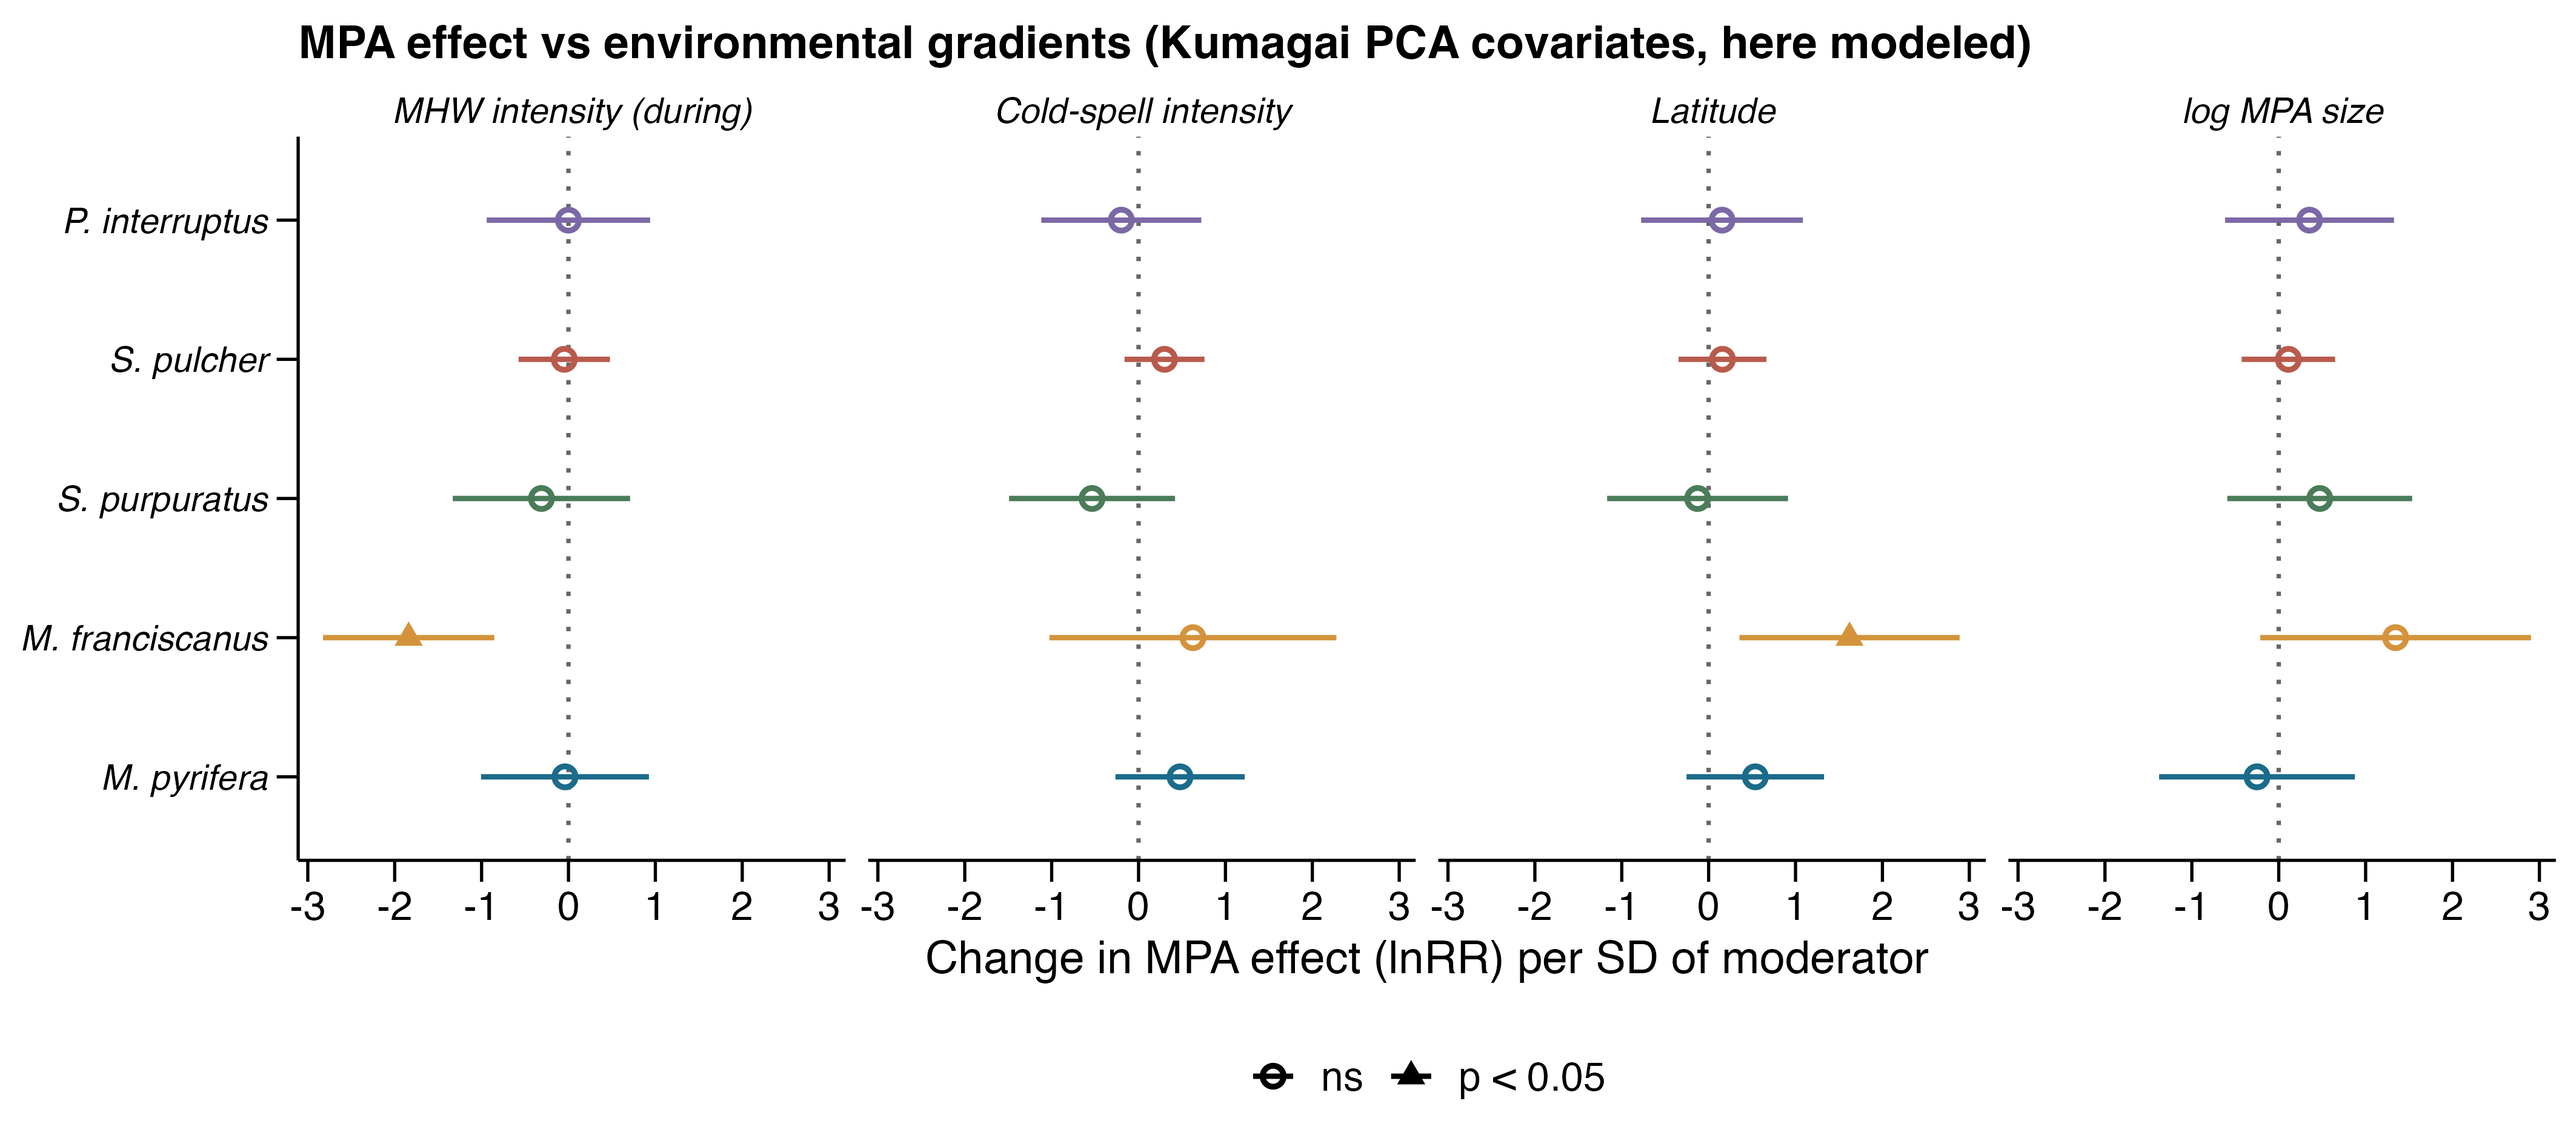
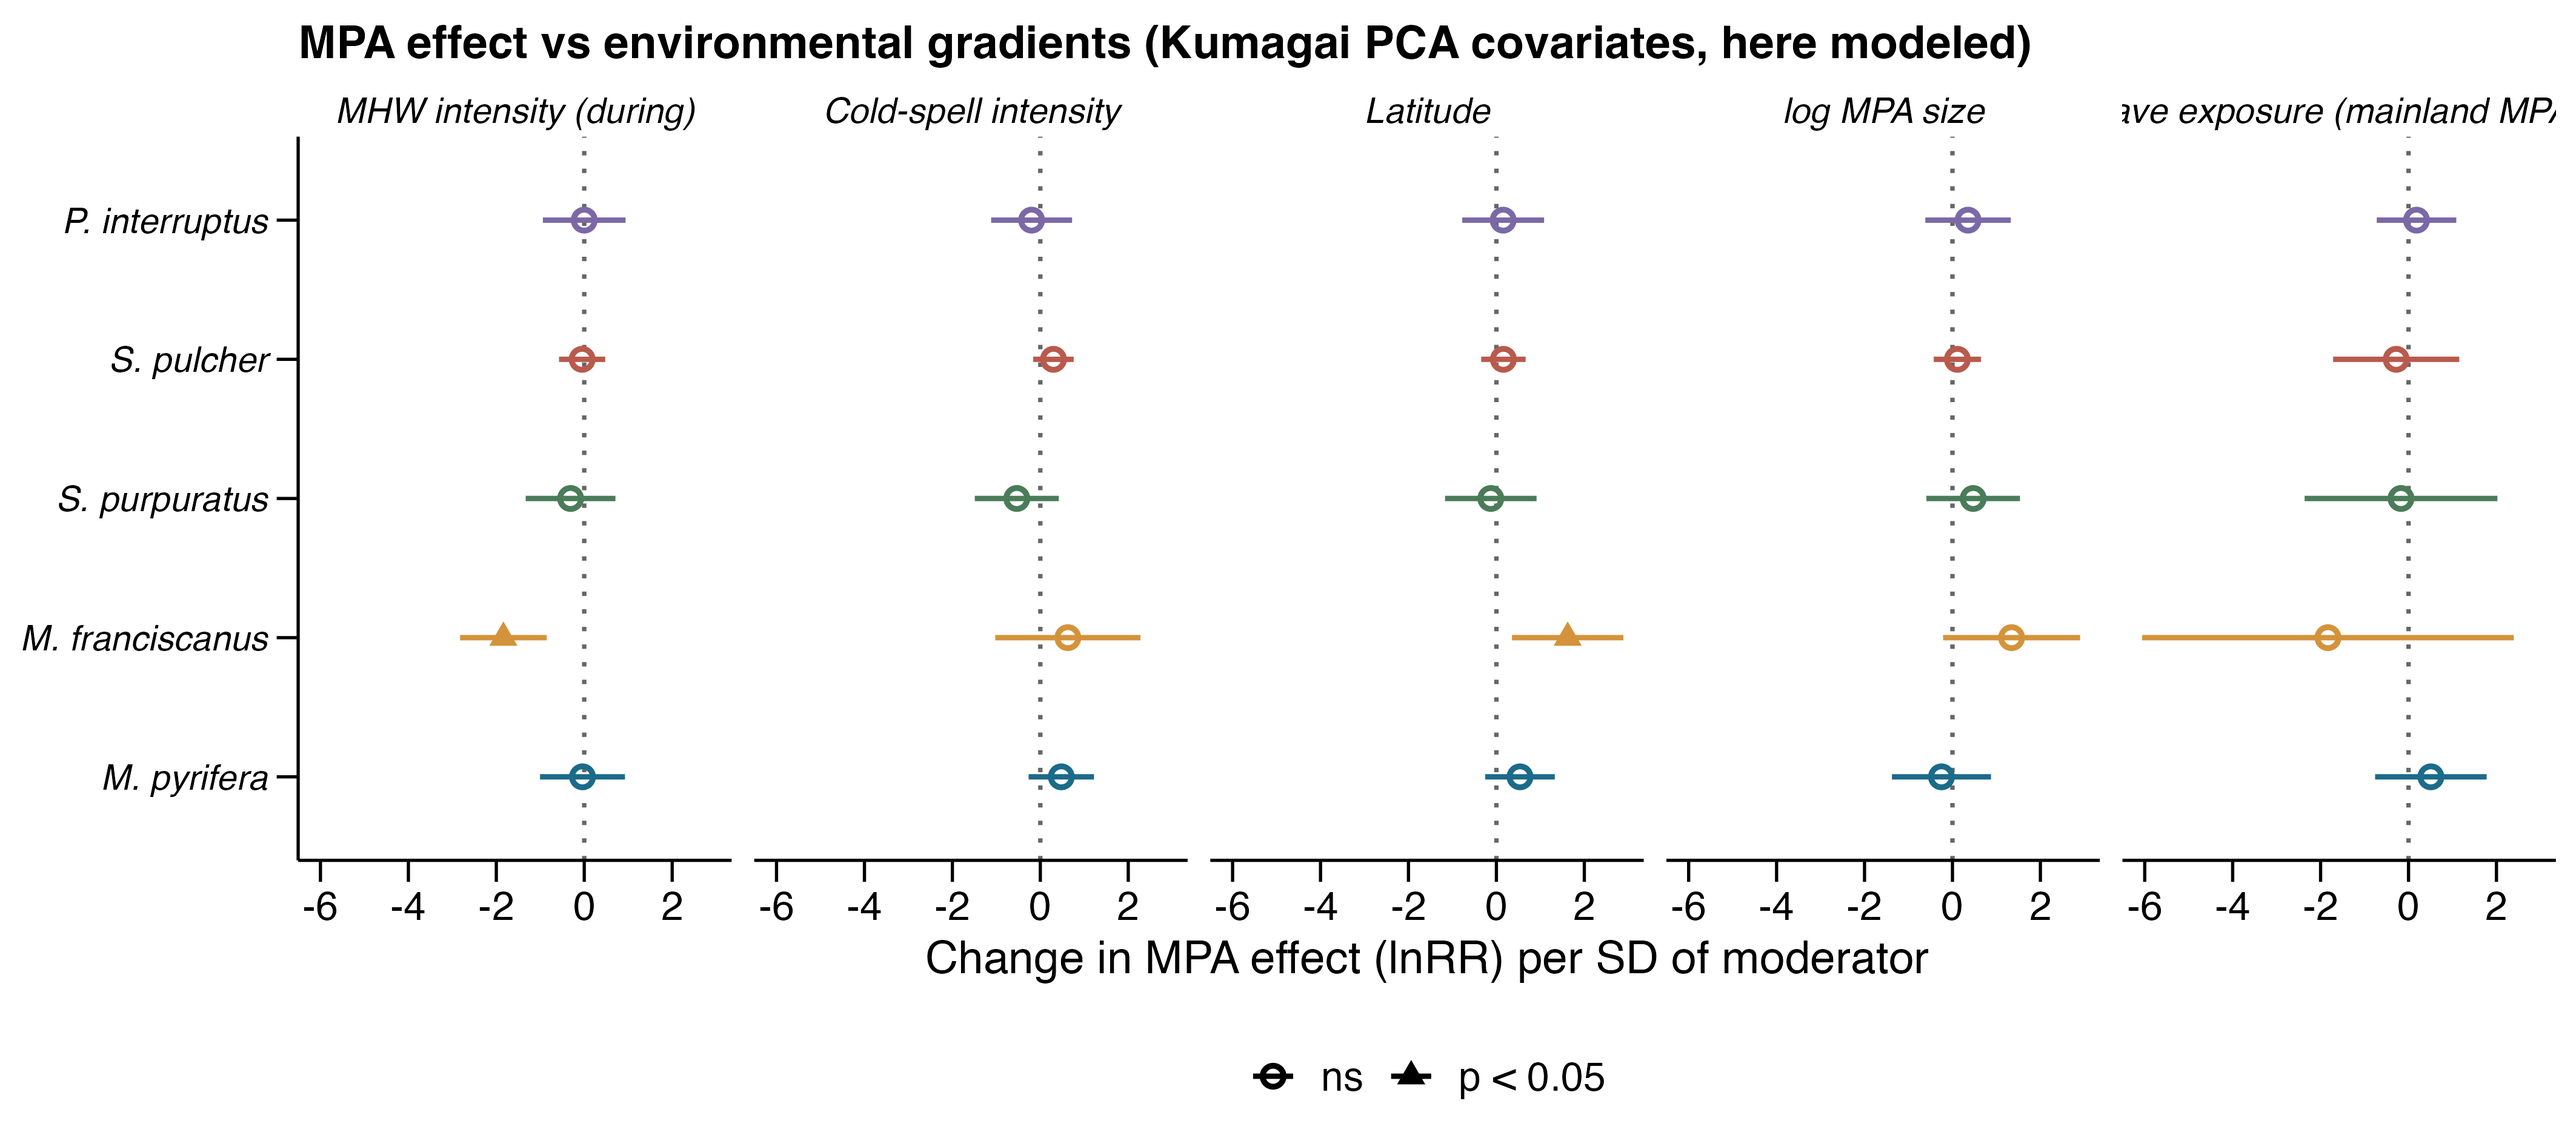
Add wave-exposure data (EDI Bell SBC LTER) and integrate as a moderator
Acquired the per-location wave product Kumagai used for hsmax: SBC LTER swell-
propagation model, EDI knb-lter-sbc.144 (Bell et al.), the same product family
behind our Landsat kelp data. Raw tables (segment locations + annual kelp/nitrate/
waves) saved to ~/sbc-kelp-env/ with provenance; derived per-MPA wave exposure
written to data/per_mpa_wave_exposure.csv (mean annual significant wave height at
the nearest coastline segment, 2000-2021).

Integrated into 16_environmental_moderators.R as a 5th moderator. Result: wave
exposure does not significantly modulate any taxon's MPA effect (mainland k=5-8,
all p>=0.26) -- consistent with the other-moderator null.

COVERAGE: the product's 360 coastline segments are mainland-only -- the 14 mainland
MPAs match within <=0.5 km (valid), but the 20 Channel-Islands MPAs are 32-105 km
from any segment and are left NA. Island-inclusive nearshore waves would need CDIP
MOP or the per-pixel CAkelpCanopyEnv NetCDF. nitrate/depth still not reconstructed.
Docs (methods_comparison_supplement, RESILIENCE_SYNTHESIS, CLAUDE, README) updated.

diff --git a/CLAUDE.md b/CLAUDE.md
@@ -521,7 +521,7 @@ Goals of the comparison: (1) confirm our PISCO numbers match theirs at shared si
 
 **Formal method-vs-data decomposition (done):** `15_methods_comparison.R` quantifies how much of the difference between the two studies is method vs data via an analytical multiverse — a 6-waypoint method bridge (one analytical flip per step) on a common dataset, plus the pooled waypoints run on both datasets. See the "Methods-comparison supplement" note under the figure-mapping section above and `docs/methods_comparison_supplement.md`. Headline: kelp resilience is method-invariant; urchin inference hinges on the AR1 autocorrelation choice; the dataset itself is the single largest lever.
 
-**Environmental-covariate gap (done):** `16_environmental_moderators.R` tests the environmental predictors Kumagai mapped in their PCA but never modeled (MHW & cold-spell intensity, latitude, MPA size — wave/nitrate/depth unavailable per-MPA without fabrication) as meta-regression moderators of our per-MPA effect sizes (Knapp-Hartung). Clean null: nothing survives FDR; giant-kelp resilience is not modulated by any gradient; omitting these covariates does not appear to bias the headline conclusions. See the "Environmental-moderator supplement" note above.
+**Environmental-covariate gap (done):** `16_environmental_moderators.R` tests the environmental predictors Kumagai mapped in their PCA but never modeled (MHW & cold-spell intensity, latitude, MPA size, and **wave exposure** for mainland MPAs) as meta-regression moderators of our per-MPA effect sizes (Knapp-Hartung). Clean null: nothing survives FDR; giant-kelp resilience is not modulated by any gradient (incl. wave exposure, p≥0.26); omitting these covariates does not appear to bias the headline conclusions. WAVE DATA: obtained from EDI knb-lter-sbc.144 (Bell SBC LTER swell model, same product as Kumagai's hsmax) → `data/per_mpa_wave_exposure.csv` (raw + provenance in `~/sbc-kelp-env/`). Covers MAINLAND MPAs only (14 valid ≤0.5km; the 20 Channel-Islands MPAs are 32-105km from any coastline segment → NA; island-inclusive waves need CDIP MOP or the per-pixel CAkelpCanopyEnv NetCDF). nitrate/depth still not reconstructed. See the "Environmental-moderator supplement" note above.
 
 **RESILIENCE ANALYSIS SUITE — read `docs/RESILIENCE_SYNTHESIS.md` first.** Scripts 14-23 form an integrated resilience module (run with `code/R/run_resilience.R`; harmonized-only 14/19/21/22/23 also in run_all). Facets: core response (14), repeatability across two heatwaves (19), resistance/recovery on the state variable (22), ecological memory/reserve-consistency (23), generality across stressor types / SSWD (20), temporal stability (21), robustness & attribution via multiverse (15), environmental moderators (16), predictability of effectiveness (18), cross-study reproduction of Eisaguirre (17). THEME: robust + repeatable giant-kelp resilience to heatwaves (kelp grows inside / declines outside; method-invariant; not modulated by env gradients; not driven by SSWD; same reserves repeat); fragile/unresolved urchin-mediation, predator diversity, and among-reserve PREDICTION (consistent but unexplained). The notes below detail each.
 

diff --git a/README.md b/README.md
@@ -334,7 +334,7 @@ We are comparing this analysis against **Kumagai et al. 2024** (*Global Change B
 
 A formal **method-vs-data decomposition** (`code/R/15_methods_comparison.R`, SI supplement `docs/methods_comparison_supplement.md`) runs an analytical multiverse — a 6-waypoint method bridge that flips one analytical choice at a time from the Kumagai-style endpoint to ours on a common dataset, plus the pooled waypoints run on both datasets — to measure how much of the between-study variation in MPA × heatwave effect sizes is driven by method versus data. Headline: giant-kelp resilience is method-invariant; the urchin inference hinges on whether temporal autocorrelation is modelled; and the dataset itself is the single largest lever.
 
-A companion **environmental-moderator analysis** (`code/R/16_environmental_moderators.R`) tests the predictors Kumagai et al. mapped in their PCA but never modeled — marine-heatwave and cold-spell intensity, latitude, and MPA size — as meta-regression moderators of our per-MPA effect sizes (wave exposure, nitrate, and depth are not available per-MPA without fabrication and are flagged as future additions). The result is a clean null: no moderator survives FDR correction, and giant-kelp resilience is not modulated by any environmental gradient, indicating that omitting these covariates does not bias the headline conclusions.
+A companion **environmental-moderator analysis** (`code/R/16_environmental_moderators.R`) tests the predictors Kumagai et al. mapped in their PCA but never modeled — marine-heatwave and cold-spell intensity, latitude, MPA size, and **wave exposure** (from the Bell SBC LTER swell-propagation product, EDI knb-lter-sbc.144 — the same family as Kumagai's `hsmax`; `data/per_mpa_wave_exposure.csv`, mainland MPAs only, as its coastline segments do not cover the Channel Islands) — as meta-regression moderators of our per-MPA effect sizes. The result is a clean null: no moderator survives FDR correction, and giant-kelp resilience is not modulated by any environmental gradient (including wave exposure), indicating that omitting these covariates does not bias the headline conclusions. (Remaining unreconstructed covariates: nitrate, depth, and island wave exposure.)
 
 We also **reproduce Eisaguirre et al. (2020, *Ecology*)** — the closest paired-design Channel-Islands analogue of our cascade claim — from the raw PISCO monitoring data we hold, since they archived no data or code (`code/R/17_eisaguirre_reproduction.R`, doc `docs/eisaguirre_reproduction.md`). The design-level results reproduce cleanly (post-disease top model identical; urchins higher outside MPAs; sheephead larger inside; bivariate sea-star→urchin, sheephead→urchin, and urchin→kelp signs all match), but the *partial* size-structured suppression does not survive once protection is in the model (sheephead–protection collinearity) — the same lesson as the Kumagai comparison: structural conclusions are robust, fine-grained partial-mechanism attribution is specification-sensitive.
 

diff --git a/docs/methods_comparison_supplement.md b/docs/methods_comparison_supplement.md
@@ -163,21 +163,26 @@ log reserve area (reserve design). We then ran, per taxon, a random-effects
 meta-regression of the per-MPA effect size on each standardised moderator
 (`metafor::rma`, REML, Knapp–Hartung small-sample *t*-test on *k* − 2 df; density
 effect sizes for the four animals, biomass for giant kelp, which has no density
-effect sizes in our pipeline), with Benjamini–Hochberg FDR across all 20 tests.
-Three covariates from their PCA — per-site wave exposure (`hsmax`), nitrate, and
-depth — could not be reconstructed per MPA (their per-site values came from a
-kelp-canopy NetCDF absent from the public mirror; only a single *regional* SBC wave
-series exists locally, with no among-MPA variation), and are flagged as a
-recommended future addition rather than estimated from inadequate data.
+effect sizes in our pipeline), with Benjamini–Hochberg FDR across all tests.
+We later added **wave exposure** for the *mainland* MPAs from the Bell SBC LTER
+swell-propagation product (EDI `knb-lter-sbc.144`, the same product family behind
+`hsmax` in Kumagai et al.; per-MPA values in `data/per_mpa_wave_exposure.csv`,
+provenance in `~/sbc-kelp-env/`). Its 360 coastline segments cover only the mainland,
+so the 14 mainland MPAs get a valid value (≤0.5 km to the nearest segment) but the 20
+Channel-Islands MPAs are 32–105 km from any segment and are left NA — island-inclusive
+nearshore waves would require CDIP MOP or the per-pixel `CAkelpCanopyEnv` NetCDF. The
+remaining PCA covariates (nitrate, depth) are still not reconstructed per MPA.
 
 The result is a clean null. **No environmental moderator survives FDR correction**
 (`table_s_env_moderators.csv`). The strongest signal is a decline in the red-urchin
 (*M. franciscanus*) effect with marine-heatwave intensity (−1.84 lnRR per SD,
 *p* = 0.003, FDR = 0.052) — suggestive but not robust, and directionally sensible
 (red urchins fared relatively worse inside the most heat-exposed reserves).
+**Wave exposure** (mainland MPAs, *k* = 5–8) does not significantly modulate any
+taxon's effect either (all *p* ≥ 0.26), though its power is very limited.
 Critically, **giant kelp's effect is not detectably modulated by any gradient**
 (all *p* ≥ 0.17): its heatwave resilience is not an artifact of where reserves
-happen to sit thermally, biogeographically, or by size. The Knapp–Hartung
+happen to sit thermally, biogeographically, by size, or by wave exposure. The Knapp–Hartung
 adjustment is essential here — without it the same *k* = 9–15 regressions return
 implausibly tiny *p*-values (down to 10⁻¹⁸) because inverse-variance weighting with
 a handful of high-precision MPAs is badly overconfident; these tests are exploratory

diff --git a/docs/RESILIENCE_SYNTHESIS.md b/docs/RESILIENCE_SYNTHESIS.md
@@ -97,8 +97,12 @@ the weakest links are *mechanism attribution* and *among-reserve prediction*.
 - [ ] **Alternative-stable-state / hysteresis** — formal test for persistent urchin
   barrens (a reserve's cascade failing to return); script 22 already hints outside
   sites did not recover. *Feasible with the time series.*
-- [ ] **Spatial wave-exposure (storm) resilience** — a distinct physical stressor, but
-  needs a per-MPA wave product (only regional series held locally). *Needs new data.*
+- [~] **Spatial wave-exposure (storm) resilience** — wave exposure obtained for the
+  *mainland* MPAs (Bell SBC LTER swell product, EDI knb-lter-sbc.144;
+  `data/per_mpa_wave_exposure.csv`) and added to the moderator screen (script 16): no
+  significant modulation (mainland k=5–8, all p≥0.26). The 20 Channel-Islands MPAs are
+  not covered by that product's mainland coastline segments; island-inclusive nearshore
+  waves would require CDIP MOP or the per-pixel CAkelpCanopyEnv NetCDF. *Partial.*
 
 ## Outputs and reproducibility
 
